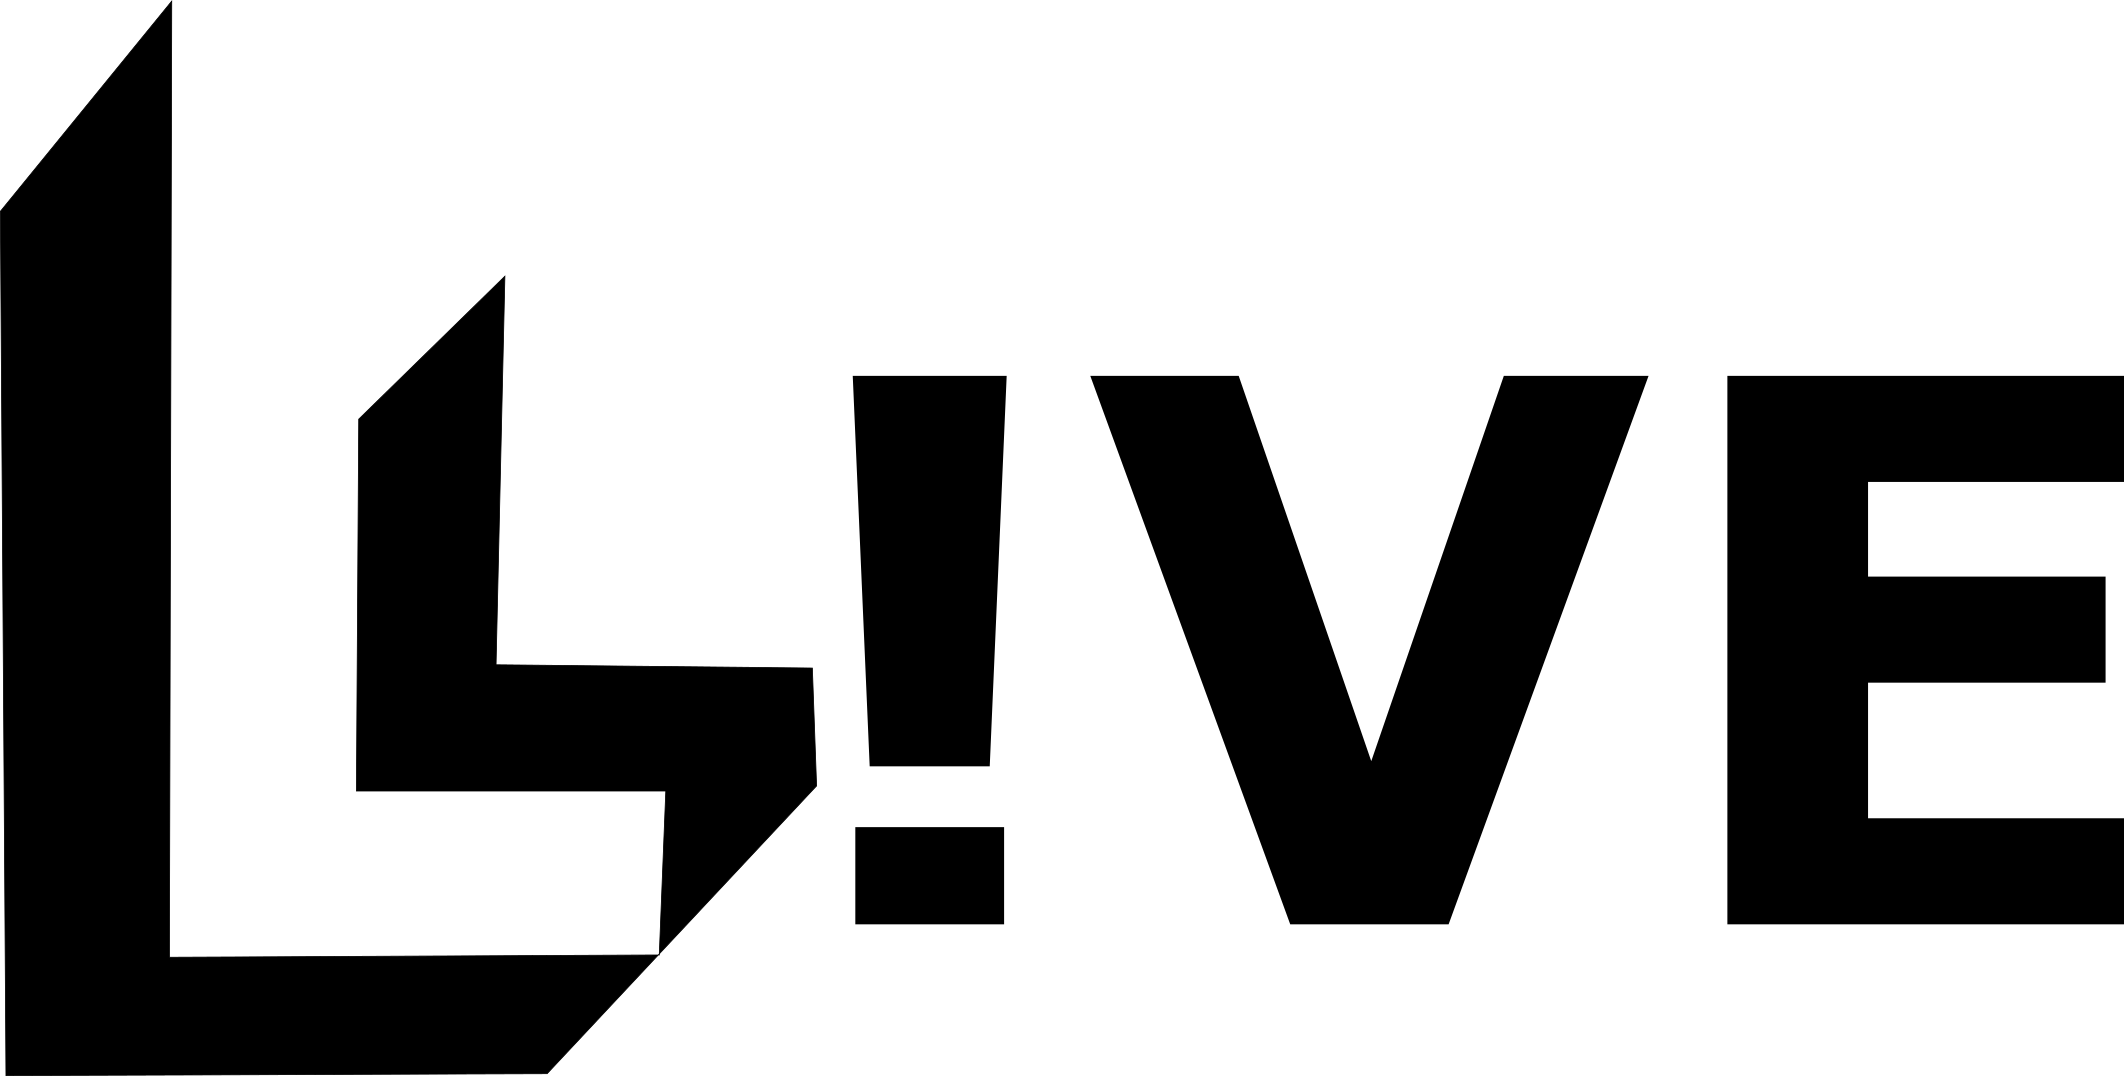
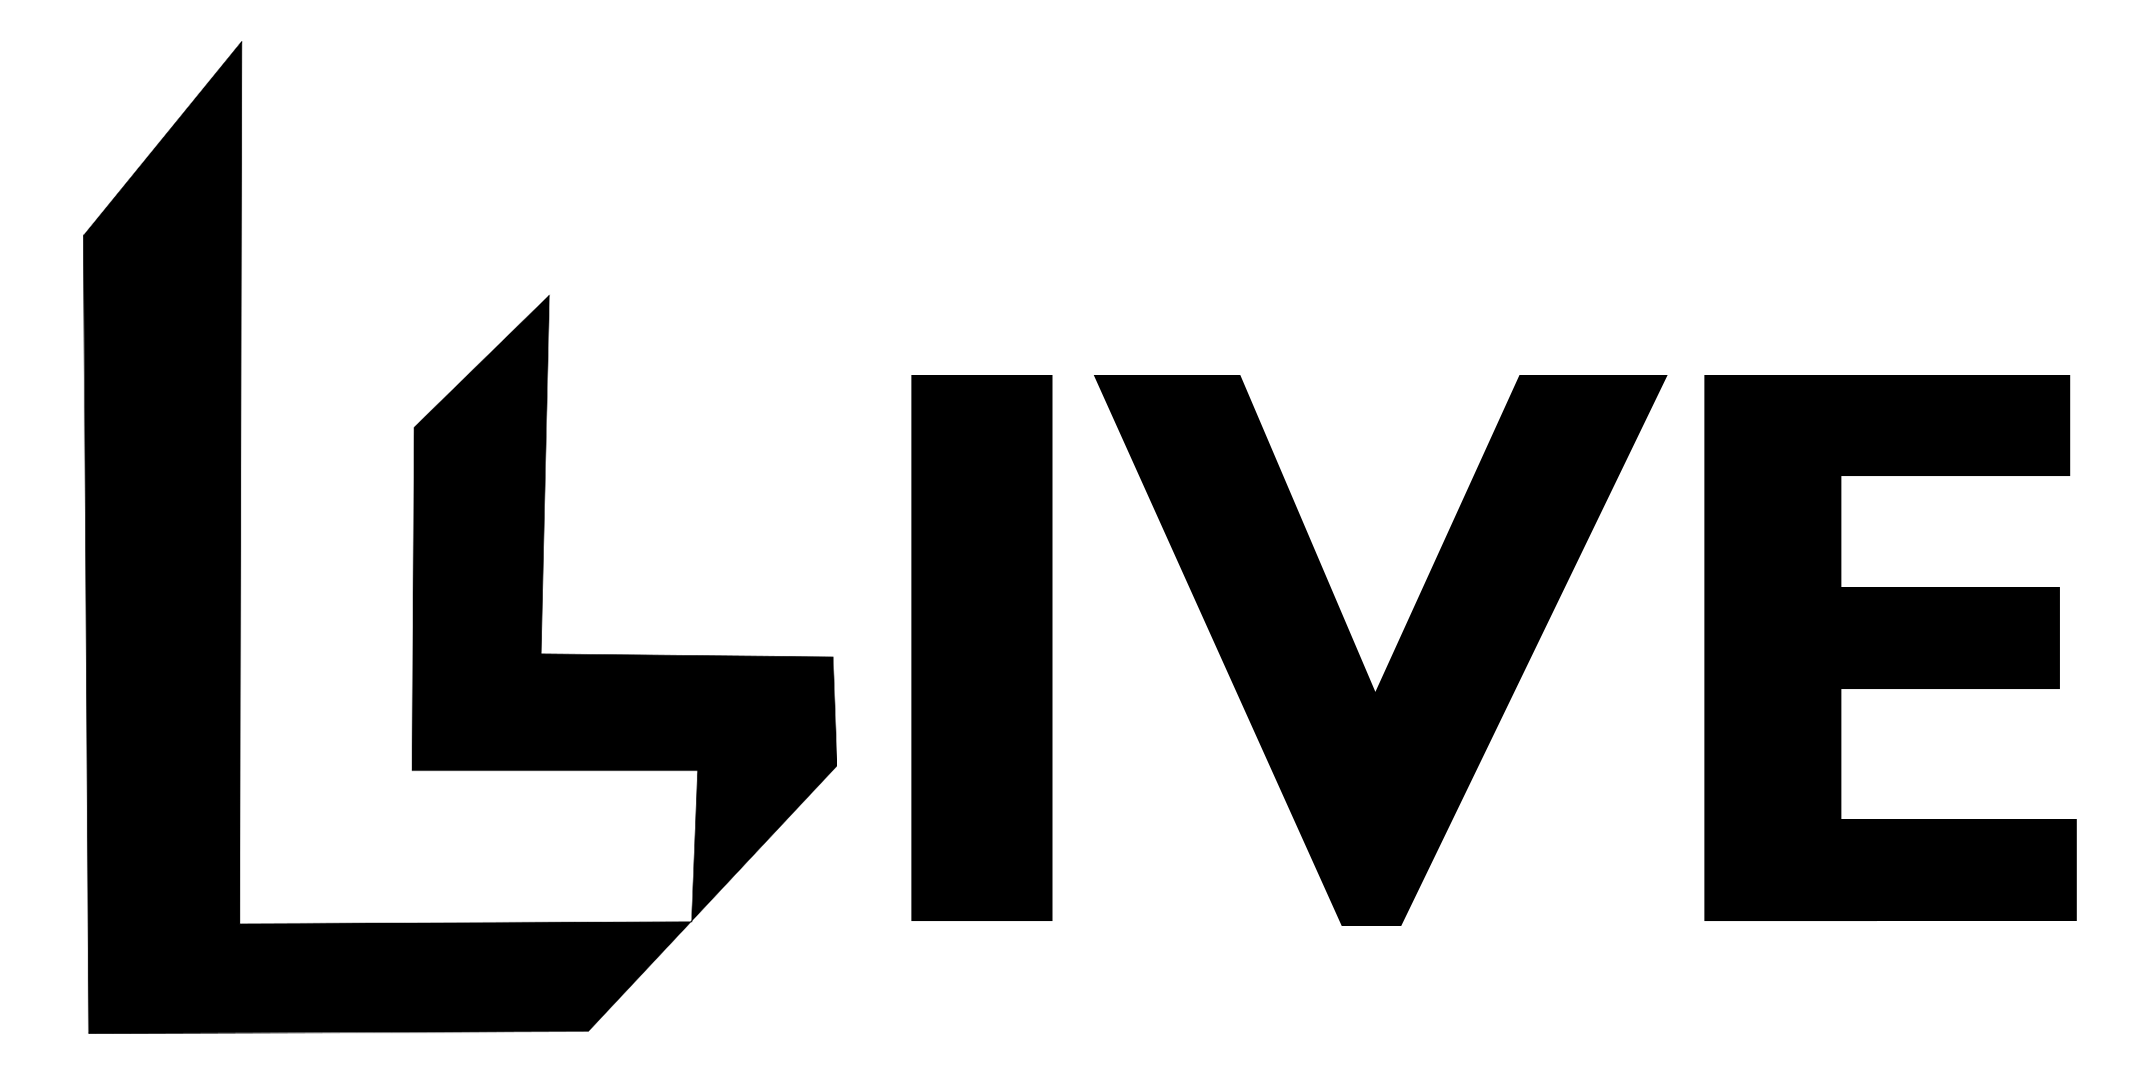
change ! to i

diff --git a/index.html b/index.html
@@ -3,11 +3,11 @@
     
 
 <head>
-        <title>L!VE</title>
+        <title>LIVE</title>
         <meta name="description" content="">
-        <meta name="keywords" content="L!VE, L!VE Indonesia, developer, livecorp.id">
+        <meta name="keywords" content="LIVE, LIVE Indonesia, developer, livecorp.id">
         <meta charset="utf-8">
-        <meta name="author" content="L!VE Indonesia">
+        <meta name="author" content="LIVE Indonesia">
         <!--[if IE]><meta http-equiv='X-UA-Compatible' content='IE=edge,chrome=1'><![endif]-->
         <meta name="viewport" content="width=device-width, initial-scale=1.0, maximum-scale=1.0" />
         
@@ -57,9 +57,9 @@
                             
                             <h2 class="hs-line-14 font-alt mb-50 mb-xs-30">
                                 <span class="text-rotate">
-                                    L!VE Indonesia,
+                                    LIVE Indonesia,
                                     We Have Strong Background in AI,
-                                    Dream it L!VE it
+                                    Dream it LIVE it
                                 </span>
                             </h2>
 
@@ -134,7 +134,7 @@
                 <div class="container relative">
                     
                     <h2 class="section-title font-alt align-left mb-70 mb-sm-40">
-                        About L!VE Indonesia
+                        About LIVE Indonesia
                     </h2>
                     
                     <div class="section-text mb-50 mb-sm-20">
@@ -458,10 +458,7 @@
                                         <blockquote class="mb-0">
                                             <p>
                                                 <center>
-                                                    We serve technical training and workshop to
-                                                deepen your knowledge about AI or a project manager who want to improve
-                                                your human resource skill or just a curious person who want to learn about AI,
-                                                feel free to contact us and we will organize a training session for you.
+                                                    We provide a training and workshop for student, professional, organization, and industry who doing a project related AI-based and want to deepen knowledge about AI with guidance from our industry experts.
                                                 </center>
                                             </p>
                                             <!-- <footer>
@@ -494,9 +491,7 @@
                                         <blockquote class="mb-0">
                                             <p>
                                                 <center>
-                                                    We have experienced member in A.I. field that will help you to
-                                                    improve your system output, just tell us your problem by sending us
-                                                    an email, and we will help you.
+                                                    We have a consultancy session for student, professional, organization, and industry who have a problem in their project or want to improve their system performancy with guidence from our experienced researcher.
                                                 </center>
                                             </p>
                                             <!-- <footer>
@@ -529,8 +524,7 @@
                                         <blockquote class="mb-0">
                                             <p>
                                                 <center>
-                                                    We provide a service to process your dataset and build an intelligent system,
-                                                    discuss it with us by sending an email, and we will build it for you.
+                                                    We serve a project development for student, professional, organization, and industry who have/haven't dataset and wanna build an intelligent system. Feel free to contact us and we will deliver an amazing experience with our professional services.
                                                 </center>
                                             </p>
                                             <!-- <footer>
@@ -1329,7 +1323,7 @@
                                             Upwork 
                                         </div>
                                         <div class="ci-text">
-                                            L!VE Indonesia
+                                            LIVE Indonesia
                                         </div>
                                     </div>
                                 </div>
@@ -1367,7 +1361,7 @@
                         
                         <!-- Copyright -->
                         <div class="footer-copy font-alt">
-                            <a href="" target="_blank">&copy; L ! V E 2021</a>.
+                            <a href="" target="_blank">&copy; L I V E 2021</a>.
                         </div>
                         <!-- End Copyright -->
                         
